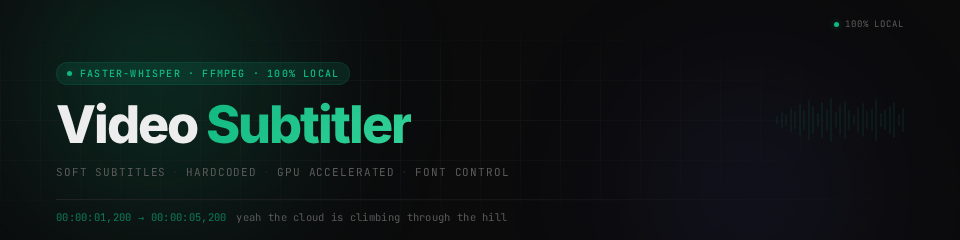
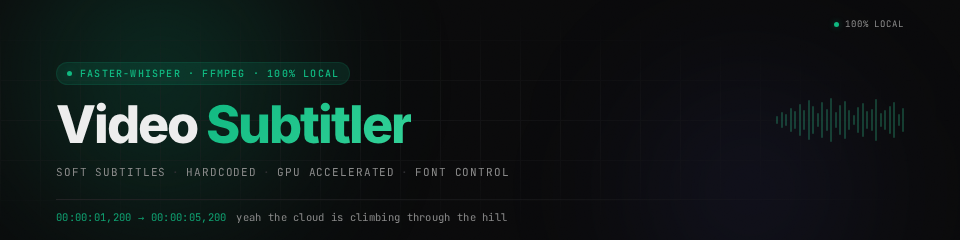
Brighten signboard: waveform 0.08→0.25, tagline #5a→#8a, SRT preview brighter, timestamp 0.6→0.85

diff --git a/docs/signboard_v5.html b/docs/signboard_v5.html
@@ -130,14 +130,14 @@
   .tagline {
     font-family: 'JetBrains Mono', monospace;
     font-size: 11px;
-    color: #5a5a5a;
+    color: #8a8a8a;
     letter-spacing: 0.08em;
     margin-top: 14px;
     text-transform: uppercase;
   }
 
   .tagline .sep {
-    color: #222224;
+    color: #2e2e31;
     margin: 0 6px;
   }
 
@@ -150,13 +150,13 @@
     display: flex;
     align-items: center;
     gap: 2.5px;
-    opacity: 0.08;
+    opacity: 0.25;
     z-index: 1;
   }
   .waveform span {
     display: block;
     width: 2px;
-    background: #10b981;
+    background: #34d399;
     border-radius: 1px;
   }
 
@@ -178,14 +178,14 @@
     left: 56px;
     font-family: 'JetBrains Mono', monospace;
     font-size: 10.5px;
-    color: #5a5a5a;
+    color: #8a8a8a;
     letter-spacing: 0.3px;
     z-index: 1;
   }
 
   .srt-preview .time {
     color: #10b981;
-    opacity: 0.6;
+    opacity: 0.85;
     margin-right: 10px;
   }
 
@@ -196,7 +196,7 @@
     right: 56px;
     font-family: 'JetBrains Mono', monospace;
     font-size: 9px;
-    color: #5a5a5a;
+    color: #8a8a8a;
     letter-spacing: 0.1em;
     text-transform: uppercase;
     z-index: 1;
